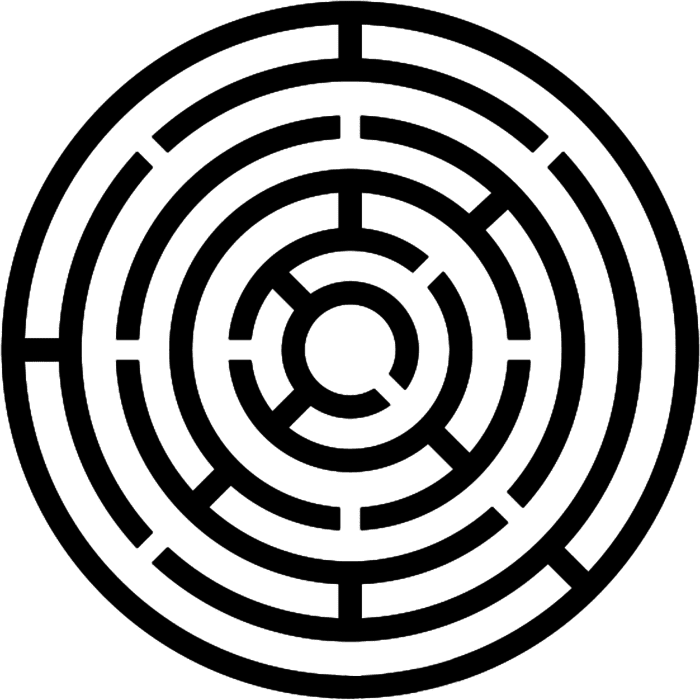
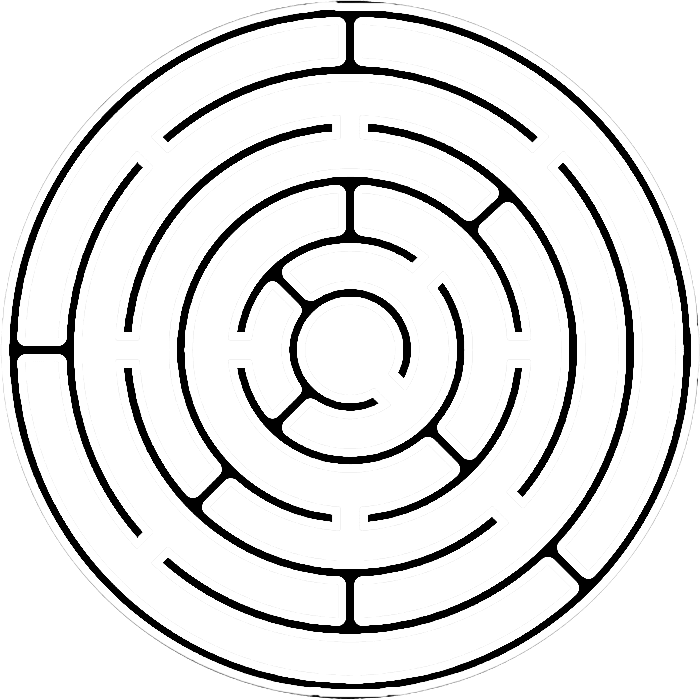
CREDITS

Changed region(s): [[0.0, 0.0, 1.0, 1.0]]

diff --git a/jeux.py b/jeux.py
@@ -72,6 +72,8 @@ def main():
 
             cote = round(self.width // sqrt(self.pieces_totales))
 
+
+
             if self.pieces_trouvees == 0:
                 for y in [i*4 for i in range(0, cote*cote*2, cote*2)]:
                     for x in range(3+y, y+cote*4, 4):
@@ -178,6 +180,7 @@ def main():
                         no_background=True, no_title_bar=True, pos=(20, 10)):
             dpg.add_button(tag="compteur", label="Pièces obtenues: " + str(PUZZLE.pieces_trouvees)+"/"+str(PUZZLE.pieces_totales), width= 700)
             with dpg.group(horizontal=True):
+                dpg.add_button(show=True, label="Crédits", tag="Crédits", callback=lambda: dpg.configure_item("fenetre_credits", show=True))
                 dpg.add_checkbox(label="Puzzle", tag="Afficher_puzzle", callback= lambda: dpg.configure_item("puzzle", show=dpg.get_value("Afficher_puzzle")))
                 
                 def debug_mode(sender, app_data):
@@ -220,6 +223,11 @@ def main():
         with dpg.window(tag="fenetre_quitter", no_title_bar=True, no_move=True, no_background=True,
                         pos=(ECRAN[0]-537, ECRAN[1] - 130), autosize=True):
             dpg.add_button(tag="QUITTER", label="QUITTER LE JEU", width=500, height=90, callback=dpg.stop_dearpygui)
+        
+        # Fenetre Crédits
+
+        with dpg.window(tag="fenetre_credits", pos=(ECRAN[0]//2, ECRAN[1]//2), autosize=True, show=False):
+            dpg.add_text(tag="text_credits", default_value="""Mathieu THOS\nClémentine GHOSN\nElias PUJOL-HERING\nAntonin SIDHOUM""", wrap = 300)
 
         # Fenetre principale
 
@@ -237,7 +245,7 @@ def main():
     LABYRINTHES = [ 
         labyrinthe(40, "labirynthes/1", "fonds/plaine", [10, 20], (9, 74, 0),       [Special("PIECE", [580, 520]), Special("PORTAIL_AVANT", [210, 580])], "La Planète Verdura est un endroit luxuriant et verdoyant, avec de grands arbres qui s'élèvent vers le ciel. Les chemins serpentent entre les racines entrelacées et les plantes exotiques. Le fragment de la carte stellaire se trouve au sommet d'une ancienne tour cachée au cœur de la forêt."),
         labyrinthe(50, "labirynthes/2", "fonds/desert", [60, 60],  (219, 76, 33),   [Special("PIECE", [320, 330]), Special("PORTAIL_AVANT", [190, 600]), Special("PORTAIL_ARRIERE", [460, 600])], "La Planète Sableon est un paysage aride et impitoyable, avec des dunes de sable à perte de vue et des tempêtes de sable occasionnelles. Le soleil brille intensément dans un ciel sans nuages. Le fragment de la carte stellaire est enfoui dans une ancienne pyramide perdue sous le sable. "), 
-        labyrinthe(20, "labirynthes/3", "fonds/nuages", [365, 35], (122, 214, 235), [Special("PIECE", [340, 340]), Special("PORTAIL_AVANT", [535, 580]), Special("PORTAIL_ARRIERE", [580, 535])], "La Planète Nimbroa est un monde céleste rempli de nuages moelleux et de paysages oniriques. Les nuages prennent des formes fantastiques et l' étoile brille aux couleurs charmantes. À première vue, elle peut paraître paisible et paradisiaque mais c'est en réalité une des planètes les plus dangereuses. Le fragment de la carte stellaire se cache, cette fois, au sommet d'une montagne de nuages majestueuse. "), 
+        labyrinthe(40, "labirynthes/3", "fonds/nuages", [365, 20], (122, 214, 235), [Special("PIECE", [330, 330]), Special("PORTAIL_AVANT", [20, 360]), Special("PORTAIL_ARRIERE", [570, 520])], "La Planète Nimbroa est un monde céleste rempli de nuages moelleux et de paysages oniriques. Les nuages prennent des formes fantastiques et l' étoile brille aux couleurs charmantes. À première vue, elle peut paraître paisible et paradisiaque mais c'est en réalité une des planètes les plus dangereuses. Le fragment de la carte stellaire se cache, cette fois, au sommet d'une montagne de nuages majestueuse. "), 
         labyrinthe(30, "labirynthes/4", "fonds/lave",   [290, 70], (117, 1, 1),     [Special("PIECE", [480, 70]) , Special("PORTAIL_ARRIERE", [380, 570])], "La Planète Mustafar est un monde tumultueux rempli de volcans en éruption et de rivières de lave brûlante. Des flammes dansent sur la surface, créant une lueur sinistre dans un ciel sombre. Le fragment de la carte stellaire se trouve dans un sanctuaire au cœur d'un volcan actif.  Mais Félix devra d'abord traverser des plateformes instables, éviter toutes éruptions volcaniques et résister à la chaleur étouffante."),
                     ]
                     
